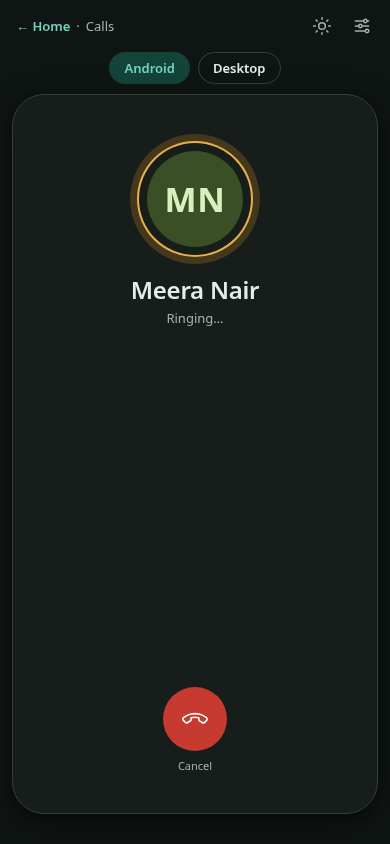
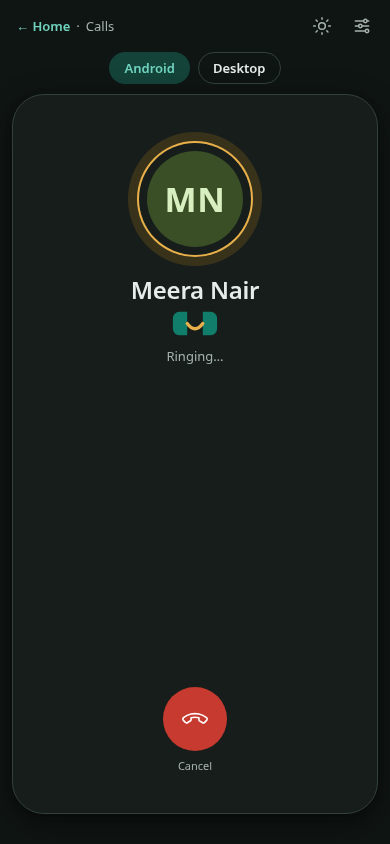
call UI, packet 1: button press feedback + the brand mark, animated
Every call-control button (chat.html's Mute/End, groups.html's same,
calls.html's Mute/End/route) now gets the same press-squish the rest of
the app already had via interactions.css — they just weren't in its
selector list. End gets a touch more (.93 vs .97): it's the one
irreversible action in that row.

The brand mark (brand.html's #mark, two cans and a string) now lives in
the direct-call overlay (chat.html, and groups.html's overlay when it's
showing a direct call) and in calls.html's platform simulation: the
string sags while ringing/connecting, straightens taut the instant the
call connects — the same read that flips the status text and the same
moment the `connected` cue plays, one effect seen and heard together.
On End it sags again and the overlay plays a brief release before it
actually unmounts; `endCall()` now waits ~220ms for that before clearing
call state. calls.html shows the same sag/taut states but, since it
fully redraws the stage on every phase change, the transition there is
a cut, not a tween — consistent with everything else on that page.
Scoped to direct calls only; group calls keep their roster, unaffected.

The End delay shifts a handful of existing QA assertions by ~220ms;
bumped their waits accordingly across flow-chat/groups/calls,
mobile-chat-test and home-test. Full suite green: run-all.sh 552/552,
devices 296/296, mobile-chat 173/173, group-polish 154/154.

This is packet 1 of 4 in the approved video-calling-UI + call-screen-
[…]

diff --git a/docs/design/refined/qa/flow-chat.js b/docs/design/refined/qa/flow-chat.js
@@ -153,7 +153,7 @@ await q.goto(L.BASE+'chat.html?chat=meera&embed=1&callbar=host');await sleep(q,3
 await chk('?callbar=host: no strip of its own (Home draws it); phone button still returns to the call',async()=>({ok:await q.locator('#callStrip').isHidden()&&(await q.getAttribute('#callBtn','aria-label'))==='Return to call with Arjun Oommen'}));
 await q.click('#callBtn');await sleep(q,150);await q.click('#callMin');await sleep(q,100);
 await chk('?callbar=host: minimise sends focus to the phone button, not a hidden strip',async()=>({ok:(await foc(q))==='callBtn'&&await q.locator('#callStrip').isHidden(),d:await foc(q)}));
-await q.goto(L.BASE+'groups.html?group=hike');await sleep(q,300);await q.click('#callStrip');await sleep(q,150);await q.click('#callOv .end');await sleep(q,150);
+await q.goto(L.BASE+'groups.html?group=hike');await sleep(q,300);await q.click('#callStrip');await sleep(q,150);await q.click('#callOv .end');await sleep(q,350); // End now waits ~220ms for the string/overlay release
 await q.goto(L.BASE+'chat.html?chat=arjun');await sleep(q,300);
 await chk('ending in groups ended it for chat too',async()=>({ok:await q.locator('#callStrip').isHidden()&&(await q.getAttribute('#callBtn','aria-label'))==='Voice call Arjun'}));
 await chk('cross-page call flow never creates an AudioContext',async()=>{const a=await L.aud(q);return {ok:!a.started&&!a.ctxStates.length,d:JSON.stringify(a)}});
@@ -220,7 +220,7 @@ await chk('message-sent sound: no console errors',async()=>({ok:!s.errs.length,d
 await s.context().close()}
 {// call record left in the thread on End (WhatsApp convention) — a bubble, since every call here is outgoing
 const t=await L.page(b);await t.goto(L.BASE+'chat.html?chat=arjun');await sleep(t,300);
-await t.click('#callBtn');await sleep(t,2800);await t.click('#callEnd');await sleep(t,200);
+await t.click('#callBtn');await sleep(t,2800);await t.click('#callEnd');await sleep(t,350); // End now waits ~220ms for the string/overlay release
 await chk('answered call leaves a call-record bubble: phone icon, "Voice call", MM:SS duration, no delivery tick',async()=>{const r=await t.$eval('.m:last-child',e=>({cls:e.querySelector('.bub').className,fn:e.querySelector('.fn').textContent,fm:e.querySelector('.fm').textContent,fmCls:e.querySelector('.fm').className,tick:!!e.querySelector('.tk')}));return {ok:r.fn==='Voice call'&&/^\d\d:\d\d$/.test(r.fm)&&r.fmCls==='fm'&&!r.tick,d:JSON.stringify(r)}});
 await chk('call record shows in the chat-list preview like an attachment',async()=>({ok:/Voice call ·/.test(await t.textContent('[data-chat=arjun] .pv'))}));
 await t.click('.m:last-child .more');await sleep(t,200);
@@ -228,9 +228,30 @@ await chk('call record menu: only Delete (no Reply/Copy/Edit/Message info)',asyn
 await t.keyboard.press('Escape');await sleep(t,150);
 await t.click('.callrow');await sleep(t,250);
 await chk('tapping the call record calls back: overlay reopens',async()=>({ok:await t.locator('#callOv').isVisible()&&(await t.textContent('#callName'))==='Arjun Oommen'}));
-await t.click('#callEnd');await sleep(t,200); // End well before connectAt (2500ms) → a second call record, this time "No answer"
+await t.click('#callEnd');await sleep(t,350); // End well before connectAt (2500ms) → a second call record, this time "No answer" (release delay included)
 await chk('call ended before connecting: "No answer" in --danger, not a duration',async()=>{const r=await t.$eval('.m:last-child .fm',e=>({t:e.textContent,cls:e.className,c:getComputedStyle(e).color}));return {ok:r.t==='No answer'&&/missed/.test(r.cls),d:JSON.stringify(r)}});
 await chk('missed call shows "Missed voice call" in the chat-list preview',async()=>({ok:/Missed voice call/.test(await t.textContent('[data-chat=arjun] .pv'))}));
 await chk('call record sound: no console errors',async()=>({ok:!t.errs.length,d:t.errs.join('|')}));
 await t.context().close()}
+{// the brand mark: sags while ringing/connecting, goes taut the instant the call connects, sags again and releases on End
+const u=await L.page(b);await u.goto(L.BASE+'chat.html?chat=arjun');await sleep(u,300);
+await u.click('#callBtn');await sleep(u,200);
+await chk('mark sags while ringing',async()=>({ok:!(await u.evaluate(()=>document.querySelector('#callMark').classList.contains('taut')))}));
+await sleep(u,2600);
+await chk('mark goes taut the instant status reads Connected',async()=>{const r=await u.evaluate(()=>({taut:document.querySelector('#callMark').classList.contains('taut'),status:document.querySelector('#callStatus').textContent}));return {ok:r.taut&&r.status==='Connected',d:JSON.stringify(r)}});
+const t0=Date.now();await u.click('#callEnd');
+await chk('End: mark sags back and the overlay releases before it hides (not an instant cut)',async()=>{const r=await u.evaluate(()=>({taut:document.querySelector('#callMark')?.classList.contains('taut'),ending:document.querySelector('#callOv').classList.contains('ending'),hidden:document.querySelector('#callOv').hidden}));return {ok:!r.taut&&r.ending&&!r.hidden,d:JSON.stringify(r)}});
+await sleep(u,400);
+const releaseMs=Date.now()-t0;
+await chk('overlay actually hides only after the release (~220ms), not before',async()=>{const hidden=await u.evaluate(()=>document.querySelector('#callOv').hidden);return {ok:hidden&&releaseMs>=200,d:'hidden after '+releaseMs+'ms'}});
+await chk('reduced motion: skips both the mark transition and the End delay',async()=>{
+ await u.goto(L.BASE+'chat.html?chat=arjun&motion=reduce');await sleep(u,300);
+ await u.click('#callBtn');await sleep(u,2700);
+ const taut=await u.evaluate(()=>document.querySelector('#callMark').classList.contains('taut'));
+ await u.click('#callEnd');await sleep(u,40);
+ const hidden=await u.evaluate(()=>document.querySelector('#callOv').hidden);
+ return {ok:taut&&hidden,d:JSON.stringify({taut,hidden})};
+});
+await chk('brand mark: no console errors',async()=>({ok:!u.errs.length,d:u.errs.join('|')}));
+await u.context().close()}
 await b.close();C.save('chat-results.json')})();

diff --git a/docs/design/refined/qa/flow-groups.js b/docs/design/refined/qa/flow-groups.js
@@ -144,7 +144,7 @@ p=await L.page(b,{w:390,h:844,mobile:true});await p.goto(L.BASE+'groups.html');a
 await chk('mobile: call overlay + strip across conversation and list views at 390',async()=>{await p.locator('[data-row=hike]').click();await sleep(p,300);const w=await p.$eval('#callBtn',c=>c.offsetWidth);await p.click('#callBtn');await sleep(p,3000);await p.screenshot({path:'screenshots/groups-mobile-call-overlay.png'});
   await p.click('#callOv .cmin');await sleep(p,200);await p.screenshot({path:'screenshots/groups-mobile-call-strip.png'});const inConv=await p.locator('#callStrip').isVisible();
   await p.click('[aria-label="Back to groups"]');await sleep(p,300);const inList=await p.locator('#callStrip').isVisible();await p.screenshot({path:'screenshots/groups-mobile-call-strip-list.png'});
-  await p.click('#callStrip');await p.click('#callOv .end');await sleep(p,200);return {ok:w===44&&inConv&&inList&&!(await p.locator('#callStrip').isVisible()),d:[w,inConv,inList].join()}});
+  await p.click('#callStrip');await p.click('#callOv .end');await sleep(p,350);return {ok:w===44&&inConv&&inList&&!(await p.locator('#callStrip').isVisible()),d:[w,inConv,inList].join()}});
 await chk('mobile: Phone preview link hidden under 860px',async()=>({ok:!(await p.locator('#mobilePreview').isVisible())}));
 await p.screenshot({path:'screenshots/groups-mobile-list.png'});
 await chk('mobile list: no overflow',async()=>{const o=await L.overflow(p);return {ok:o.sw<=o.cw,d:JSON.stringify(o)}});
@@ -176,7 +176,7 @@ await chk('cross-page: group call strip in chat.html; chat phone button returns 
 await q.click('#callStrip');await sleep(q,200);
 await chk('cross-page: chat.html shows the same group roster, not one avatar (identical tiles, quiet row, +n)',async()=>{const r=await rosterInfo(q),cSig=sig(r);const one=await q.evaluate(()=>document.querySelector('#callOv .who2').hidden&&document.querySelector('#callOv').getAttribute('aria-label'));return {ok:await q.locator('#callOv').isVisible()&&cSig===gSig&&r.tiles.length===3&&one==='Call with Weekend hike',d:one+' '+(cSig===gSig?'same':cSig+' VS '+gSig)}});
 await q.screenshot({path:'screenshots/roster-chat-crosspage-1440-light.png'});
-await q.click('#callEnd');await sleep(q,150);
+await q.click('#callEnd');await sleep(q,350); // End now waits ~220ms for the string/overlay release
 await q.goto(L.BASE+'groups.html?group=hike');await sleep(q,300);
 await chk('cross-page: ended in chat → gone in groups',async()=>({ok:await q.locator('#callStrip').isHidden()&&(await q.getAttribute('#callBtn','aria-label'))==='Start group call'}));
 await chk('cross-page: no AudioContext, no errors',async()=>{const a=await L.aud(q);return {ok:!a.started&&!a.ctxStates.length&&!q.errs.length,d:JSON.stringify(a)+q.errs.join('|')}});
@@ -230,10 +230,25 @@ await chk('message-sent sound in groups.html: no console errors',async()=>({ok:!
 await s.context().close()}
 {// call record left in the thread on End (WhatsApp convention) — an event line, since a group call belongs to the room
 const t=await L.page(b);await t.goto(L.BASE+'groups.html?group=hike');await sleep(t,300);
-await t.click('#callBtn');await sleep(t,3200);await t.click('#callOv .end');await sleep(t,200);
+await t.click('#callBtn');await sleep(t,3200);await t.click('#callOv .end');await sleep(t,350); // End now waits ~220ms for the string/overlay release before the record lands
 await chk('call ended leaves an event line "Call ended · MM:SS" (same .sys style as "Kavya joined…")',async()=>{const r=await t.$eval('.sys:last-child',e=>({t:e.textContent,cls:e.className}));return {ok:/^Call ended · \d\d:\d\d$/.test(r.t)&&r.cls==='sys',d:JSON.stringify(r)}});
 await chk('group calls never ring (U21), so there is no "No answer" case here — only a duration',async()=>({ok:!/No answer/.test(await t.textContent('#msgs'))}));
 await chk('event lines never reach the chat-list preview (same rule as every other one)',async()=>({ok:!/Call ended/.test(await t.textContent('[data-row=hike]'))}));
 await chk('call record (group): no console errors',async()=>({ok:!t.errs.length,d:t.errs.join('|')}));
 await t.context().close()}
+{// the brand mark on a direct call viewed from groups.html's overlay (cross-page) — group calls themselves never show it
+const u=await L.page(b);await u.goto(L.BASE+'groups.html?group=hike');await sleep(u,300);
+await u.click('#callBtn');await sleep(u,500);
+await chk('group call has no brand mark (roster-based, not a two-can metaphor)',async()=>({ok:!(await u.evaluate(()=>!!document.querySelector('#callMark')))}));
+await u.click('#callOv .end');await sleep(u,350);
+const v=await L.page(b);await v.goto(L.BASE+'chat.html?chat=arjun');await sleep(v,300);
+await v.click('#callBtn');await sleep(v,200);
+await v.goto(L.BASE+'groups.html?group=hike');await sleep(v,400);
+await v.click('#callBtn');await sleep(v,200); // call is already live elsewhere: this means "return to call"
+await chk('cross-page: a direct call shown in groups.html\'s overlay has the mark, sagging while ringing',async()=>{const r=await v.evaluate(()=>{const m=document.querySelector('#callMark');return m&&{taut:m.classList.contains('taut')}});return {ok:r&&!r.taut,d:JSON.stringify(r)}});
+await sleep(v,2600);
+await chk('cross-page: the mark goes taut once that direct call connects',async()=>({ok:await v.evaluate(()=>document.querySelector('#callMark').classList.contains('taut'))}));
+await v.click('#callOv .end');await sleep(v,350);
+await chk('brand mark (groups.html): no console errors',async()=>({ok:!u.errs.length&&!v.errs.length,d:u.errs.concat(v.errs).join('|')}));
+await u.context().close();await v.context().close()}
 await b.close();C.save('groups-results.json')})();

diff --git a/docs/design/refined/groups.html b/docs/design/refined/groups.html
@@ -64,6 +64,11 @@ a{color:var(--accent-ink);text-decoration:none}a:hover{text-decoration:underline
 .callov .cbody{margin:auto 0;display:flex;flex-direction:column;align-items:center;gap:6px;text-align:center;padding:0 16px}
 .callov .gav,.callov .t-avatar.big{width:96px;height:96px;margin-bottom:12px}.callov .t-avatar.big{font-size:32px}.callov .gav .ic svg{width:44px;height:44px;stroke-width:1.5}
 .callov h2{font-size:24px;font-weight:600;margin:0}
+.callov.ending{animation:callend 200ms ease-in forwards}
+.callmark{width:52px;height:29px;margin:2px 0}
+.callmark .mk-can{fill:var(--accent)}
+.callmark .mk-str{fill:none;stroke:var(--gold);stroke-width:2.6;stroke-linecap:round;d:path("M14 20Q20 28 26 20");transition:d 260ms ease-out}
+.callmark.taut .mk-str{d:path("M14 20 L26 20")}
 .callov .cst{font-size:var(--fs-sub);color:var(--muted)}
 .callov .ctime{font-size:15px;font-variant-numeric:tabular-nums;min-width:5ch;color:var(--ink)}
 .cctl{display:flex;align-items:flex-end;gap:40px}
@@ -196,6 +201,7 @@ dialog{border:0;padding:0;border-radius:var(--r-sheet);background:var(--surface)
 dialog::backdrop{background:rgb(10 16 14 / .5)}
 dialog[open]{display:flex;flex-direction:column;animation:pop .16s ease-out}
 @keyframes pop{from{opacity:0;transform:translateY(4px)}}
+@keyframes callend{to{opacity:0;transform:scale(.96)}}
 .dlg{min-height:0;padding:20px;overflow:auto;display:flex;flex-direction:column;gap:12px}
 .dlg h2{font-size:19px;font-weight:650;margin:0}.dlg h2:focus{outline:none}
 .dlg p{margin:0;font-size:14.5px;color:var(--muted);line-height:1.5}
@@ -509,8 +515,11 @@ function callRoster(g){
 function startCall(g){if(CALL){openCall();return}TinAudio.arm();TinCall.start({kind:'group',id:g.id,name:g.name,...callRoster(g)});openCall()}
 const gStage=TinCall.stage();TinAudio.follow(TinCall);
 TinAudio.onQuiet(on=>{const b=$('#swQuiet');if(b)b.setAttribute('aria-checked',String(on))});
+function reducedMotion(){return matchMedia('(prefers-reduced-motion:reduce)').matches||document.documentElement.dataset.motion==='reduce'}
 function tickCall(){const t=TinCall.get();if(!t)return;
-  const tm=$('#callOv .ctime');if(tm){tm.textContent=t.time||'00:00';tm.style.visibility=t.connected?'visible':'hidden';$('#callOv .cst').textContent=t.connected?'Connected':t.preLabel}}
+  const tm=$('#callOv .ctime');if(tm){tm.textContent=t.time||'00:00';tm.style.visibility=t.connected?'visible':'hidden';$('#callOv .cst').textContent=t.connected?'Connected':t.preLabel}
+  $('#callMark')?.classList.toggle('taut',!!t.connected)}
+function callMark(){const m=h('span',{});m.innerHTML='<svg class="callmark" id="callMark" viewBox="0 9 40 22" aria-hidden="true" focusable="false"><path class="mk-can" d="M14,11H8A5,5 0 0 0 3,16V24A5,5 0 0 0 8,29H14Z"/><path class="mk-can" d="M26,11H32A5,5 0 0 1 37,16V24A5,5 0 0 1 32,29H26Z"/><path class="mk-str" d="M14 20Q20 28 26 20"/></svg>';return m}
 function setInert(on){['#listPane','#convPane'].forEach(x=>{$(x).inert=on});callStrip.inert=on}
 const callInitials=n=>n.split(' ').map(w=>w[0]).slice(0,2).join('');
 function muteIcon(b){b.setAttribute('aria-pressed',String(!!CALL?.muted));b.replaceChildren(ic(CALL?.muted?'micoff':'mic'))}
@@ -523,7 +532,7 @@ function renderCall(){
   const face=CALL.kind==='group'?h('span',{class:'gav','aria-hidden':'true'},ic('users')):h('span',{class:'t-avatar big '+hue(CALL.name),'aria-hidden':'true'},callInitials(CALL.name));
   const ov=h('div',{class:'callov',id:'callOv',role:'dialog','aria-label':'Call with '+CALL.name,tabindex:'-1',onkeydown:e=>{if(e.key==='Escape'){e.preventDefault();e.stopPropagation();minimizeCall()}}},
     h('button',{class:'ib cmin',type:'button','aria-label':'Back to chat — call continues',onclick:minimizeCall},ic('chev')),
-    CALL.people?gStage:h('div',{class:'cbody'},face,h('h2',null,CALL.name),h('div',{class:'cst',role:'status'},''),h('div',{class:'ctime'},'00:00')),
+    CALL.people?gStage:h('div',{class:'cbody'},face,h('h2',null,CALL.name),CALL.kind==='direct'?callMark():null,h('div',{class:'cst',role:'status'},''),h('div',{class:'ctime'},'00:00')),
     h('div',{class:'cctl'},h('label',null,mute,'Mute'),h('label',null,h('button',{class:'cbtn end',type:'button','aria-label':'End call',onclick:()=>endCall()},ic('phone')),'End')));
   gStage.hidden=!CALL.people;app.append(ov);tickCall();if(keep)ov.focus()}
 function openCall(){if(!CALL)return;TinAudio.arm();callOpen=true;renderCall();$('#callOv').focus()}
@@ -532,6 +541,12 @@ function endCall(){
   if(!CALL)return;
   const snap=TinCall.get();// read before TinCall.end() clears connected/secs
   TinAudio.ending();
+  if(reducedMotion()){finishEndCall(snap);return}
+  $('#callMark')?.classList.remove('taut');// the string goes slack again
+  $('#callOv')?.classList.add('ending');
+  setTimeout(()=>finishEndCall(snap),220)
+}
+function finishEndCall(snap){
   if(snap&&snap.kind==='group'){const g=conv(snap.id);if(g){g.msgs.push({sys:1,text:'Call ended · '+TinCall.mmss(snap.secs)});if(S.cur===g.id)renderMsgs(true)}}
   TinCall.end();say('Call ended');($('#callBtn')||$('#convPane h2')||$('#newBtn'))?.focus()
 }

diff --git a/docs/design/refined/chat.html b/docs/design/refined/chat.html
@@ -76,6 +76,10 @@ a.ib{color:var(--ink);text-decoration:none}
 .t-avatar.s96{width:96px;height:96px;font-size:32px;margin-bottom:14px}
 .callov .gglyph{display:grid;place-items:center;width:96px;height:96px;border-radius:50%;background:var(--surface-2);color:var(--accent-ink);margin-bottom:14px}.callov .gglyph svg.i{width:44px;height:44px;stroke-width:1.5}
 .callov h2{margin:0;font-size:24px;font-weight:600;line-height:30px}
+.callmark{width:52px;height:29px;margin:2px 0}
+.callmark .mk-can{fill:var(--accent)}
+.callmark .mk-str{fill:none;stroke:var(--gold);stroke-width:2.6;stroke-linecap:round;d:path("M14 20Q20 28 26 20");transition:d 260ms ease-out}
+.callmark.taut .mk-str{d:path("M14 20 L26 20")}
 .callov .cst{font-size:var(--fs-sub);color:var(--muted);line-height:18px}
 .callov .ctm{display:inline-block;min-width:6ch;font-size:var(--fs-body);font-variant-numeric:tabular-nums;color:var(--ink);line-height:22px}
 .callctl{display:flex;align-items:flex-start;justify-content:center;gap:48px}
@@ -300,6 +304,8 @@ body:has(.app[data-view=conv]) .toasts{bottom:84px}
 .toast.notif{background:var(--surface);color:var(--ink);border:1px solid var(--hairline);display:flex;gap:10px;align-items:flex-start;width:100%}
 .toast.notif small{display:block;color:var(--muted)}
 @keyframes rise{from{opacity:0;transform:translateY(4px)}to{opacity:1;transform:none}}
+@keyframes callend{to{opacity:0;transform:scale(.96)}}
+.callov.ending{animation:callend 200ms ease-in forwards}
 @keyframes fadein{from{opacity:0}to{opacity:1}}
 @keyframes sheetup{from{opacity:.4;transform:translateY(24px)}to{opacity:1;transform:none}}
 @media (prefers-reduced-motion:reduce){*,*::before,*::after{animation:none!important;transition:none!important;scroll-behavior:auto!important}.bub.held{transform:none}}
@@ -399,7 +405,7 @@ body:has(.app[data-view=conv]) .toasts{bottom:84px}
     <div id="callStrip" hidden></div>
     <div class="callov" id="callOv" role="dialog" aria-labelledby="callName" tabindex="-1" hidden>
       <button class="ib min" type="button" id="callMin" aria-label="Back to chat — call continues"><svg class="i" aria-hidden="true"><use href="#i-chev"/></svg></button>
-      <div class="who2"><span id="callAv"></span><h2 id="callName"></h2><span class="cst" id="callStatus" aria-live="polite"></span><span class="ctm" id="callTime"></span></div>
+      <div class="who2"><span id="callAv"></span><h2 id="callName"></h2><svg class="callmark" id="callMark" viewBox="0 9 40 22" aria-hidden="true" focusable="false"><path class="mk-can" d="M14,11H8A5,5 0 0 0 3,16V24A5,5 0 0 0 8,29H14Z"/><path class="mk-can" d="M26,11H32A5,5 0 0 1 37,16V24A5,5 0 0 1 32,29H26Z"/><path class="mk-str" d="M14 20Q20 28 26 20"/></svg><span class="cst" id="callStatus" aria-live="polite"></span><span class="ctm" id="callTime"></span></div>
       <div class="callctl">
         <label><button class="cbtn mute" type="button" id="callMute" aria-pressed="false" aria-label="Mute"><svg class="i" aria-hidden="true"><use id="callMuteUse" href="#i-mic"/></svg></button><span aria-hidden="true" id="callMuteLbl">Mute</span></label>
         <label><button class="cbtn end" type="button" id="callEnd" aria-label="End call"><svg class="i" aria-hidden="true"><use href="#i-phone"/></svg></button><span aria-hidden="true">End</span></label>
@@ -707,10 +713,12 @@ let call = TinCall.get(), callOpen = false;
 // A group call (maybe started in groups.html) shows the shared roster from call-state.js instead of one avatar.
 const gStage = TinCall.stage(); $("#callOv .who2").after(gStage);
 TinAudio.follow(TinCall);
+function reducedMotion() { return matchMedia("(prefers-reduced-motion:reduce)").matches || document.documentElement.dataset.motion === "reduce"; }
 function callTick() {
   const t = TinCall.get(); if (!t) return;
   $("#callStatus").textContent = t.connected ? (t.muted ? "Muted" : "Connected") : t.preLabel;
   $("#callTime").textContent = t.time;
+  $("#callMark").classList.toggle("taut", !!t.connected);
 }
 function paintCall() {
   if (!call) return;
@@ -747,7 +755,14 @@ function minimizeCall() {
 function endCall(quiet) {
   if (!call) return;
   const snap = TinCall.get(); // read before TinCall.end() clears connected/secs
-  if (!quiet) TinAudio.ending(); // the End tap plays the ended cue here
+  if (!quiet) TinAudio.ending(); // the End tap plays the ended cue here, in sync with the release below
+  if (quiet || reducedMotion()) { finishEndCall(quiet, snap); return; }
+  $("#callMark").classList.remove("taut"); // the string goes slack again
+  $("#callOv").classList.add("ending");
+  setTimeout(() => finishEndCall(quiet, snap), 220);
+}
+function finishEndCall(quiet, snap) {
+  $("#callOv").classList.remove("ending");
   if (!quiet && snap && snap.kind === "direct") logCallEnd(snap);
   TinCall.end(); // clears this page via the subscriber, and every other page through call-state.js
   if (!quiet) { say("Call ended"); ($("#callBtn") || $("#ta") || $("#q")).focus({ preventScroll: true }); }

diff --git a/docs/design/refined/qa/home-test.js b/docs/design/refined/qa/home-test.js
@@ -89,7 +89,7 @@ const results=[];function check(name,condition,detail=''){results.push({name,ok:
   check('callbar 390 tap strip → conversation with overlay open',o.ov&&o.f==='callOv'&&!o.strip&&/chat=arjun&from=home$/.test(o.url),JSON.stringify(o));
   check('callbar 390 overlay timer continues',secs(o.t)>=before,o.t+' vs '+before);
   await p.screenshot({path:shots('conversation-after-strip-390')});
-  await p.locator('#callEnd').click();await p.waitForTimeout(150);check('callbar 390 End toast',/Call ended/.test(await p.locator('#toasts').textContent()));
+  await p.locator('#callEnd').click();await p.waitForTimeout(350);check('callbar 390 End toast',/Call ended/.test(await p.locator('#toasts').textContent()));
   await p.getByRole('button',{name:'Back to chats',exact:true}).click();await p.waitForURL('**/home.html#chats');await p.waitForTimeout(150);
   check('callbar 390 after End Home has no strip',await p.locator('#callStrip').isHidden()&&await p.locator('.mobile-bar').evaluate(e=>e.getBoundingClientRect().top===0));
   // browser history Back keeps the call too
@@ -127,7 +127,7 @@ const results=[];function check(name,condition,detail=''){results.push({name,ok:
   check('callbar 1440 '+L+' strip returns to Arjun with the overlay up',/chat=arjun/.test(back.src)&&back.sel&&back.f==='convo'&&back.inner==='callOv'&&await f.locator('#callOv').isVisible(),JSON.stringify(back));
   if(!dark)await p.screenshot({path:shots('home-1440-light-overlay')});
   await f.locator('#callMin').click();await p.locator('#callStrip').click();await p.waitForTimeout(200);check('callbar 1440 '+L+' strip on the same chat reopens without reload',await f.locator('#callOv').isVisible()&&!/call=open$/.test('x'));
-  await f.locator('#callEnd').click();await p.waitForTimeout(200);check('callbar 1440 '+L+' End in the pane clears Home strip at once',await p.locator('#callStrip').isHidden()&&await stripsVisible(p)===0&&await p.locator('.rail').evaluate(e=>e.getBoundingClientRect().top===0));
+  await f.locator('#callEnd').click();await p.waitForTimeout(350);check('callbar 1440 '+L+' End in the pane clears Home strip at once',await p.locator('#callStrip').isHidden()&&await stripsVisible(p)===0&&await p.locator('.rail').evaluate(e=>e.getBoundingClientRect().top===0));
   check('callbar 1440 '+L+' no AudioContext',await audio(p)===0);check('callbar 1440 '+L+' no runtime errors',!p.errs.length,p.errs.join(';'));await p.context().close()}
  {// call started in groups shows on Home; tapping opens the group with the overlay
   const p=await mkp({w:390,h:844});await p.goto(BASE+'groups.html?group=hike&from=home');await p.waitForTimeout(300);await p.locator('#callBtn').click();await p.waitForTimeout(200);await p.locator('#callOv .cmin').click();
@@ -135,5 +135,5 @@ const results=[];function check(name,condition,detail=''){results.push({name,ok:
   check('callbar group call visible on Home',await p.locator('#callStrip').isVisible()&&/^Weekend hike · /.test(await p.locator('#callStrip').textContent())&&await p.locator('#callStrip').getAttribute('aria-label')==='Return to call with Weekend hike');
   await p.locator('#callStrip').click();await p.waitForURL('**/groups.html?**');await p.waitForTimeout(200);
   check('callbar group strip → group overlay with the roster',/group=hike&from=home$/.test(new URL(p.url()).search)&&await p.locator('#callOv').isVisible()&&await p.locator('#callOv .t-gc .t-gc-glyph').count()===1&&await p.locator('#callOv .t-gc-spk > li').count()===3);
-  await p.locator('#callOv .end').click();check('callbar group End clears',await p.locator('#callStrip').isHidden());check('callbar group no AudioContext',await audio(p)===0);check('callbar group no errors',!p.errs.length,p.errs.join(';'));await p.context().close()}
+  await p.locator('#callOv .end').click();await p.waitForTimeout(350);check('callbar group End clears',await p.locator('#callStrip').isHidden());check('callbar group no AudioContext',await audio(p)===0);check('callbar group no errors',!p.errs.length,p.errs.join(';'));await p.context().close()}
  }catch(e){results.push({name:'run completed',ok:false,detail:e.stack});console.error(e)}finally{await b.close();fs.writeFileSync(path.join(root,'home-results.json'),JSON.stringify(results,null,2));const failed=results.filter(r=>!r.ok);console.log(`${results.length-failed.length}/${results.length} home checks passed`);if(failed.length)process.exitCode=1}})();

diff --git a/docs/design/refined/calls.html b/docs/design/refined/calls.html
@@ -66,6 +66,10 @@ main{max-width:1240px;margin:0 auto;padding:4px 12px 32px;display:flex;flex-dire
 .desk .av{width:80px;height:80px;font-size:28px}
 .idn h3{margin:0;font-size:24px;line-height:30px;font-weight:600;letter-spacing:-.01em;outline:0;overflow-wrap:anywhere}
 .idle .idn h3{font-size:var(--fs-title);line-height:24px}
+.callmark{width:52px;height:29px;margin:4px 0 0}
+.callmark .mk-can{fill:var(--accent)}
+.callmark .mk-str{fill:none;stroke:var(--gold);stroke-width:2.6;stroke-linecap:round;d:path("M14 20Q20 28 26 20")}
+.callmark.taut .mk-str{d:path("M14 20 L26 20")}
 .st{margin:4px 0 0;min-height:18px;font-size:var(--fs-sub);line-height:18px;color:var(--muted);font-variant-numeric:tabular-nums}
 .st #dur{display:inline-block;min-width:5ch;font-variant-numeric:tabular-nums}
 .meta{margin:12px 0 0;display:inline-flex;align-items:center;gap:6px;font-size:12px;line-height:16px;color:var(--muted)}
@@ -582,8 +586,10 @@ function view(){
   else v.acts=[{a:'close',l:'Close',c:'tx'}];
  }
  if(grp&&v.ini)v.grp=true;
+ if(!v.grp&&['connecting','ringing','incoming','joining','active','reconnecting'].indexOf(S.phase)>=0)v.mark=S.phase==='active'?'taut':'sag';
  return v;
 }
+function markHtml(state){return '<svg class="callmark'+(state==='taut'?' taut':'')+'" viewBox="0 9 40 22" aria-hidden="true" focusable="false"><path class="mk-can" d="M14,11H8A5,5 0 0 0 3,16V24A5,5 0 0 0 8,29H14Z"/><path class="mk-can" d="M26,11H32A5,5 0 0 1 37,16V24A5,5 0 0 1 32,29H26Z"/><path class="mk-str" d="M14 20Q20 28 26 20"/></svg>'}
 function btn(x){return '<button type="button" class="b '+(x.c||'')+'" data-act="'+x.a+'"'+(x.dis?' disabled aria-disabled="true"':'')+'>'+(x.i?svg(x.i,x.ic):'')+x.l+'</button>'}
 function cbtn(x){return '<button type="button" class="cb '+(x.k||'')+'" data-act="'+x.a+'"'+(x.al?' aria-label="'+x.al+'"':'')+(x.pr!==undefined?' aria-pressed="'+x.pr+'"':'')+'><span class="cw"><span class="c">'+svg(x.i,x.ic)+'</span></span><span class="l" aria-hidden="'+(x.al?'true':'false')+'">'+x.l+'</span></button>'}
 function renderStage(){
@@ -595,7 +601,7 @@ function renderStage(){
  st.innerHTML='<section class="dev '+(P?'desk':'phone')+'" aria-label="'+(P?'Desktop call window':'Android call screen')+'">'+
   '<div class="tb">'+(S.phase==='incoming'?'Incoming call — Tinline':'Tinline')+'</div>'+
   '<div class="body '+v.cls+'">'+(v.banner?'<div class="banner">'+v.banner+'</div>':'')+top+
-  '<div class="idn"><h3 id="stage-t" tabindex="-1">'+v.name+'</h3>'+(v.status?'<p class="st">'+v.status+'</p>':'')+'</div>'+
+  '<div class="idn"><h3 id="stage-t" tabindex="-1">'+v.name+'</h3>'+(v.mark?markHtml(v.mark):'')+(v.status?'<p class="st">'+v.status+'</p>':'')+'</div>'+
   v.meta+
   (v.desc?'<p class="desc">'+v.desc+'</p>':'')+
   (v.after?'<div class="banner after">'+v.after+'</div>':'')+

diff --git a/docs/design/refined/qa/mobile-chat-test.js b/docs/design/refined/qa/mobile-chat-test.js
@@ -20,7 +20,7 @@ await step('desktop-mobile',async()=>{const p=await page(b);await p.goto(BASE+'m
  await f.locator('#callMin').click();await p.waitForTimeout(200);
  chk('1440 embed: minimized strip above header inside the frame',await f.locator('#callStrip').evaluate(e=>{const r=e.getBoundingClientRect(),b=document.querySelector('#conv .bar').getBoundingClientRect();return r.top<2&&Math.round(r.height)===40&&b.top>=r.bottom-1}));
  await shot(p,'1440-iframe-strip');
- await f.locator('#callStrip').click();await f.locator('#callEnd').click();await p.waitForTimeout(200);
+ await f.locator('#callStrip').click();await f.locator('#callEnd').click();await p.waitForTimeout(350); // End now waits ~220ms for the string/overlay release
  chk('1440 embed: call ended',!(await f.locator('#callStrip').isVisible())&&!(await f.locator('#callOv').isVisible()));
  chk('1440 embed: app fills frame, no border/radius',await f.locator('#app').evaluate(e=>{const c=getComputedStyle(e),r=e.getBoundingClientRect();return c.borderTopWidth==='0px'&&c.borderTopLeftRadius==='0px'&&Math.abs(r.height-innerHeight)<2}));
  chk('1440 iframe shows Arjun',(await f.locator('#convTitle').innerText()).includes('Arjun'));
@@ -161,7 +161,7 @@ for(const dark of [false,true])await step('mobile-home-callbar-'+(dark?'dark':'l
  await fr().locator('#callStrip').click();await p.waitForTimeout(900);
  chk(L+' mobile home: strip → conversation with overlay open',/chat\.html\?chat=arjun&from=home$/.test(fr().url())&&await fr().locator('#callOv').isVisible()&&await strips()===0,fr().url());
  if(!dark)await p.screenshot({path:path.join(SS,'callbar-mobile-overlay-after-strip.png')});
- await fr().locator('#callEnd').click();await p.waitForTimeout(150);await fr().getByRole('button',{name:'Back to chats',exact:true}).click();await p.waitForTimeout(900);
+ await fr().locator('#callEnd').click();await p.waitForTimeout(350);await fr().getByRole('button',{name:'Back to chats',exact:true}).click();await p.waitForTimeout(900);
  chk(L+' mobile home: after End no strip anywhere',/home\.html/.test(fr().url())&&await strips()===0);
  chk(L+' mobile home: no AudioContext',(await p.evaluate(()=>0))===0&&!(await fr().evaluate(()=>window.__aud&&window.__aud.ctxs.length)));
  chk(L+' mobile home: no runtime errors',!p.errs.length,p.errs.join('|'));await p.close()});

diff --git a/docs/design/refined/interactions.css b/docs/design/refined/interactions.css
@@ -4,13 +4,14 @@
 :where(button,a,input,select,textarea){-webkit-tap-highlight-color:transparent}
 :where(button,.btn,.ib,.b,.chip,.row,.card){transition:background-color 120ms ease,border-color 120ms ease,box-shadow 160ms ease,transform 100ms ease}
 :where(button:not(:disabled):not([aria-disabled=true])):active{filter:brightness(.96)}
-:where(.btn,.ib,.b,.chip,.new-btn):not(:disabled):not([aria-disabled=true]):active{transform:scale(.97);box-shadow:0 1px 2px rgb(0 0 0 / .08)}
+:where(.btn,.ib,.b,.chip,.new-btn,.cbtn,.cb):not(:disabled):not([aria-disabled=true]):active{transform:scale(.97);box-shadow:0 1px 2px rgb(0 0 0 / .08)}
+.cbtn.end:not(:disabled):active,.cb.end:not(:disabled):active{transform:scale(.93)}
 :where(button.row):not(:disabled):active{background:var(--press-wash)}
 :where(.btn:not(.secondary):not(.quiet):not(.ol):not(.tx),.new-btn,.b.pri){box-shadow:var(--elevation-control)}
 :where(dialog){box-shadow:var(--elevation-sheet)}
 :where(input,textarea,select){transition:border-color 120ms ease,box-shadow 120ms ease}
 :where(input,textarea,select):focus-visible{box-shadow:0 0 0 3px var(--press-wash)}
 @media(hover:hover) and (pointer:fine){:where(.btn:not(.secondary):not(.quiet):not(.ol):not(.tx),.new-btn,.b.pri):not(:disabled):hover{box-shadow:0 2px 4px rgb(15 35 27 / .1),0 5px 14px rgb(15 35 27 / .1)}}
-@media(prefers-reduced-motion:reduce){:where(button,.btn,.ib,.b,.chip,.row,.card,input,textarea,select){transition:none!important}:where(.btn,.ib,.b,.chip,.new-btn):active{transform:none!important}}
-:root[data-motion=reduce] :where(.btn,.ib,.b,.chip,.new-btn):active{transform:none!important}
+@media(prefers-reduced-motion:reduce){:where(button,.btn,.ib,.b,.chip,.row,.card,input,textarea,select){transition:none!important}:where(.btn,.ib,.b,.chip,.new-btn,.cbtn,.cb):active{transform:none!important}}
+:root[data-motion=reduce] :where(.btn,.ib,.b,.chip,.new-btn,.cbtn,.cb):active{transform:none!important}
 @media(forced-colors:active){:where(dialog,.btn,.b.pri,.new-btn){box-shadow:none;border:1px solid ButtonText}:where(button):active{filter:none;outline:2px solid Highlight;outline-offset:-3px}}

diff --git a/docs/design/refined/qa/flow-calls.js b/docs/design/refined/qa/flow-calls.js
@@ -158,4 +158,15 @@ await p.click('#stopsnd');await sleep(p,1200);
 await chk('shared audio: Stop sound stops it (onchange hook updates the caption), zero live oscillators',async()=>{const r=await p.evaluate(()=>({cur:TinAudio.Snd.cur,cap:document.querySelector('#cap').textContent,live:window.__aud.osc.filter(o=>o.started&&!o.ended).length}));return {ok:r.cur===null&&/Sound stopped/.test(r.cap)&&r.live===0,d:JSON.stringify(r)}});
 await chk('shared audio: no console errors',async()=>({ok:p.errs.length===0,d:p.errs.join('|')}));
 await p.context().close();
+{// the brand mark: sags while connecting/ringing, taut once active; absent for idle and group calls
+const q=await L.page(b);await q.goto(L.BASE+'calls.html');await sleep(q,200);
+await chk('idle: no mark (nothing to be taut or slack about yet)',async()=>({ok:!(await q.evaluate(()=>!!document.querySelector('.callmark')))}));
+await q.click('[data-act=start]');await sleep(q,300);
+await chk('connecting: mark present, sagging',async()=>{const r=await q.evaluate(()=>{const m=document.querySelector('.callmark');return m&&{taut:m.classList.contains('taut')}});return {ok:r&&!r.taut,d:JSON.stringify(r)}});
+await sleep(q,7200);
+await chk('active: mark taut, in sync with the connected status',async()=>{const r=await q.evaluate(()=>({taut:document.querySelector('.callmark')?.classList.contains('taut'),st:document.querySelector('.st')?.textContent}));return {ok:r.taut&&/^\d\d:\d\d$/.test(r.st),d:JSON.stringify(r)}});
+await q.click('[data-act=end]');await sleep(q,200);
+await chk('ended: no mark (not a live call anymore)',async()=>({ok:!(await q.evaluate(()=>!!document.querySelector('.callmark')))}));
+await chk('brand mark (calls.html): no console errors',async()=>({ok:!q.errs.length,d:q.errs.join('|')}));
+await q.context().close()}
 await b.close();C.save('calls-results.json')})();

diff --git a/docs/design/refined/SPEC.md b/docs/design/refined/SPEC.md
@@ -217,6 +217,26 @@ no navigation away, because the core loop is call ↔ chat:
     preview, same as every other one.
   - Quiet resets (Clear/Reset in the Simulation drawer) end the call
     without leaving a record — they're clearing the demo, not living it.
+- **The brand mark, animated** (direct calls only — `chat.html`'s overlay and
+  `groups.html`'s overlay when it's showing a direct call; group calls keep
+  their roster and never show this, group video is out of scope the same
+  way): the `mk-can`/`mk-str` mark from `brand.html`'s `#mark` sits between
+  the name and the status line. The string (`.mk-str`, `--gold`, quadratic
+  `M14 20Q20 28 26 20`) sags while ringing/connecting and straightens to
+  `M14 20 L26 20` — **taut** — the instant `t.connected` flips true, the same
+  read that flips the status text to "Connected" and the same moment the
+  `connected` audio cue plays: one effect, seen and heard together, not two.
+  260ms `d` transition. On End, before the overlay unmounts: the string goes
+  slack again and the whole overlay plays a 200ms scale(.96)+fade release
+  (`.ending` class) — `endCall()` waits for it before actually calling
+  `TinCall.end()`. Minimize never triggers this (the call hasn't ended);
+  reopening shows whatever taut/slack state is already current. `calls.html`
+  shows the same sag/connecting/taut states (`view()`'s `v.mark`) but, since
+  it fully redraws `#stage` on every phase change (nothing there persists
+  across a render to transition from), the change there is a cut, not a
+  tween — consistent with every other state change already being a cut on
+  that page. Reduced motion (`prefers-reduced-motion` or `?motion=reduce`):
+  no transition, no End delay — states still change correctly, just instantly.
 - Deep links (`calls.html` only): `?call=<id>` / `?call=group:<id>` open an
   already-ringing screen — unaffected by the above. `calls.html` is unchanged
   apart from pulling its cues from the shared `call-audio.js`: it keeps its
@@ -246,6 +266,14 @@ states: 2 lines max — bold short line + one plain line (e.g. "Choose a chat" /
 120–180ms ease-out; entrances fade+4px rise; `prefers-reduced-motion` and
 `data-motion=reduce` kill all of it (already in interactions.css — keep applying
 the shared classes). Animation never carries meaning alone.
+
+Press feedback (`interactions.css`, shared by every study) scales to `.97` on
+`:active` for `.btn/.ib/.b/.chip/.new-btn`, and now `.cbtn`/`.cb` too — the
+call-control buttons (Mute, End, and calls.html's Mute/End/route row) get the
+same give as every other button, with End itself squishing a touch more
+(`.cbtn.end`/`.cb.end`, `.93`) since it's the one irreversible action in that
+row. Reduced motion zeroes the transform the same way it already zeroes
+everything else here.
 
 ## QA duties per packet
 
